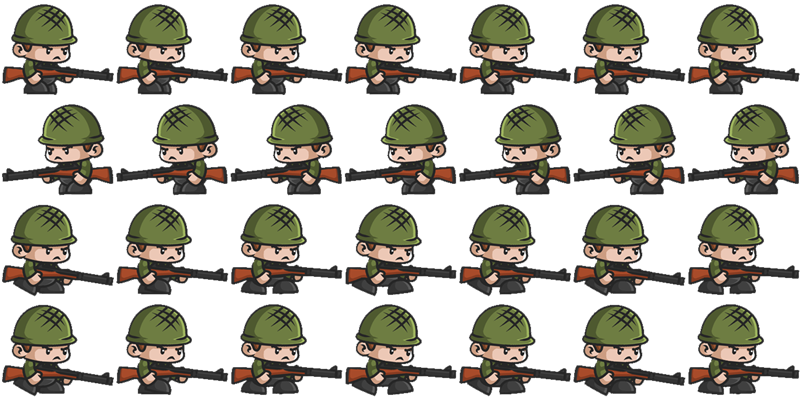
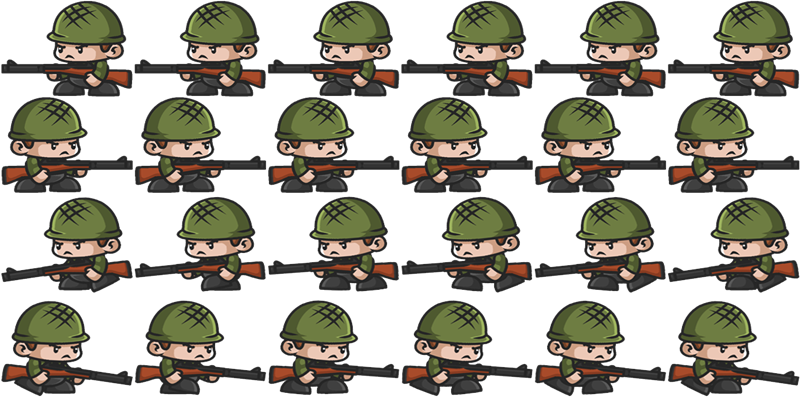
탈북게임 enemy 수정

diff --git a/프로젝트/탈북게임/탈북게임.py b/프로젝트/탈북게임/탈북게임.py
@@ -22,12 +22,12 @@ class Enemy:
         self.where = random.randint(0, 3)
         self.x, self.y = random.randint(900, 1920 - 100), random.randint(0, 1080 - 100)
         self.nowX, self.nowY = 0, 0
-        self.frame = random.randint(0, 4)
+        self.frame = random.randint(0, 5)
         self.n = 0
         self.count = random.randint(0, 19)
 
     def update(self) :
-        self.frame = (self.frame + 1) % 5
+        self.frame = (self.frame + 1) % 6
         self.n = self.n + 1
         if (self.n > 100) :
             self.n = 0
@@ -42,9 +42,9 @@ class Enemy:
 
     def draw(self) :
         if (self.nowX > self.x) :
-            self.image.clip_draw(self.frame * 115, 100, 110, 100, self.x, self.y)
+            self.image.clip_draw(self.frame * 133, 100, 133, 100, self.x, self.y)
         elif (self.nowX <= self.x):
-            self.image.clip_draw(self.frame * 115, 0, 110, 100, self.x, self.y)
+            self.image.clip_draw(self.frame * 133, 0, 133, 100, self.x, self.y)
 
 class Player:
     def __init__(self) :
